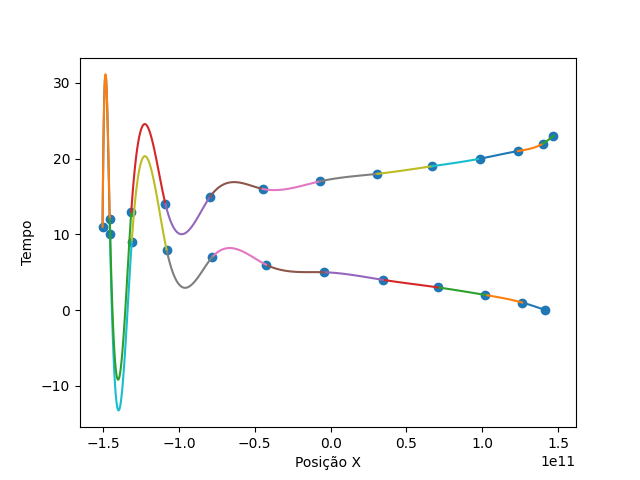
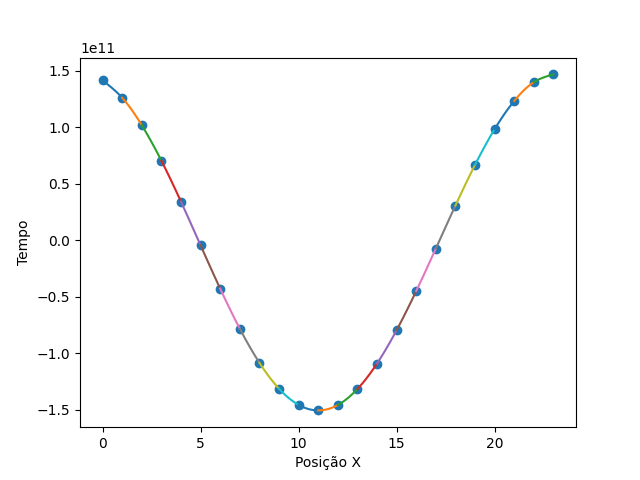
atualiza;cao

diff --git a/numericalMethods/spline.py b/numericalMethods/spline.py
@@ -44,14 +44,14 @@ def main():
     data = np.loadtxt(r'D:\Studies\programacao\nbody\metodos-numericos\numericalMethods\output.txt')
     
     # Separar os dados para cada corpo
-    coordenadasX = data[:, 3:6]
-    coordenadasY = np.arange(len(coordenadasX))
+    coordenadasY = data[:, 3:6]
+    coordenadasX = np.arange(len(coordenadasY))
     
     
     # coordenadasY = data[:, 3:6]
     # coordenadasZ = data[:, 6:]
-    polinomios = spline(coordenadasX[:, 0] ,coordenadasY)
-    plt.scatter(coordenadasX[:, 0], coordenadasY)
+    polinomios = spline(coordenadasX ,coordenadasY[:, 0])
+    plt.scatter(coordenadasX, coordenadasY[:, 0])
     plt.xlabel('Posição X')
     plt.ylabel('Tempo')
     print(polinomios)
